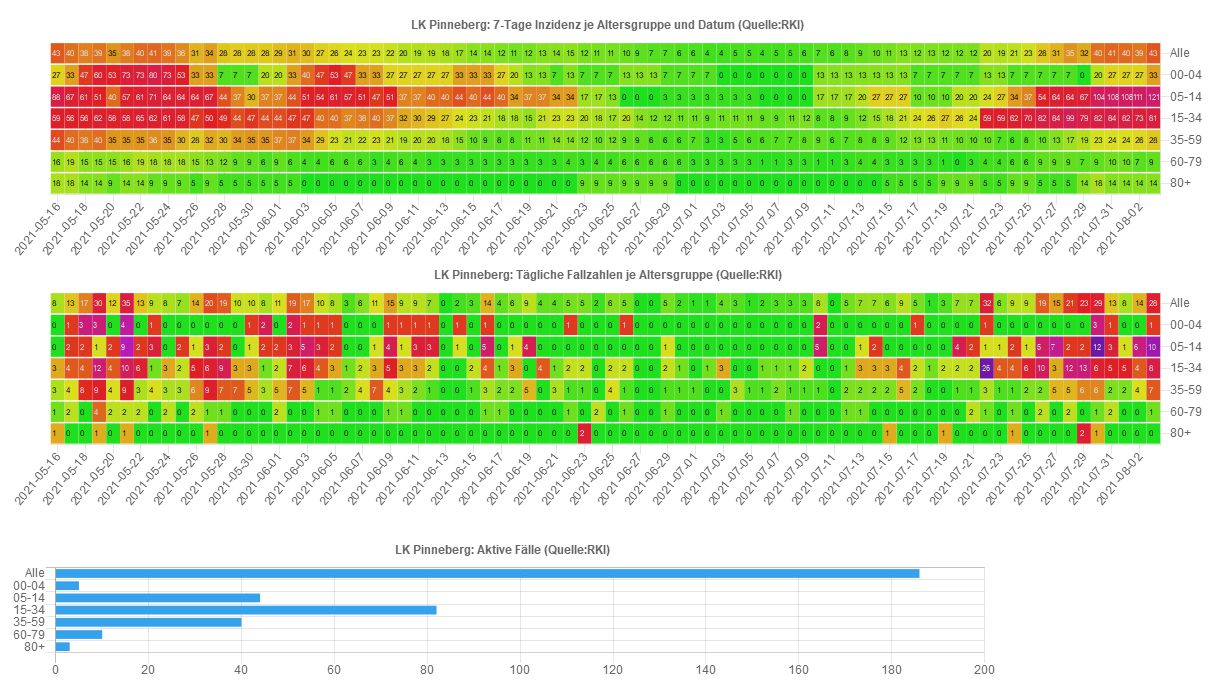
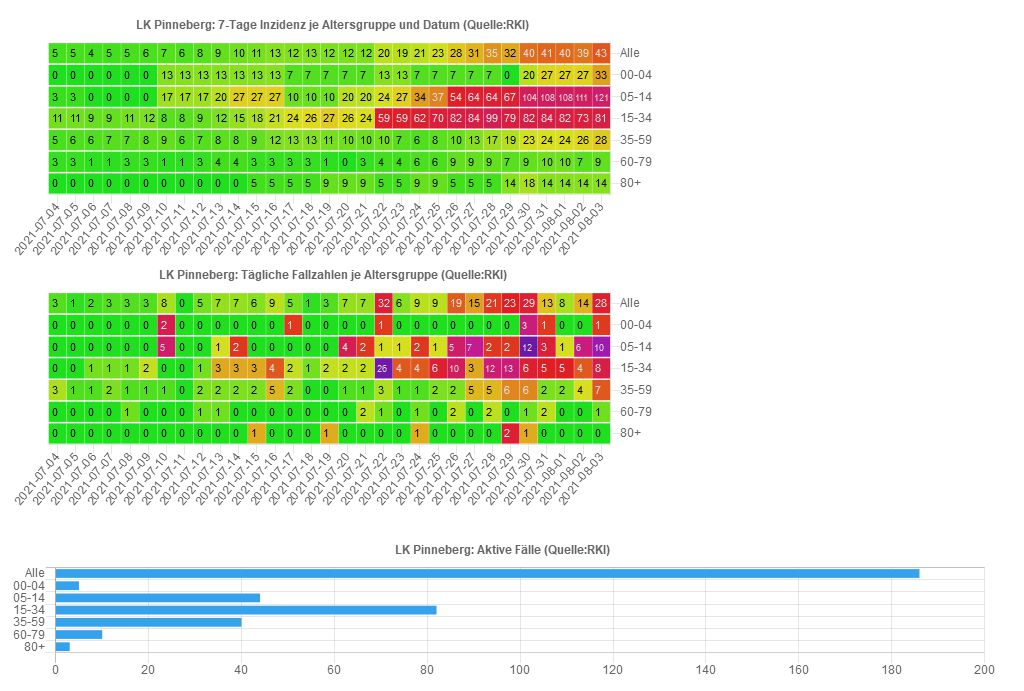
04.08.2021  9:20:01,37

diff --git a/sh/Data_PI_Alter.js b/sh/Data_PI_Alter.js
@@ -4,55 +4,6 @@ var chdata={
 		datasets: [{
 			label: 'Altersgruppeninzidenzen',
 			data: [
-				{x: '2021-05-16', y: 'Alle', v: 42.7075985, vday: 17.7157446, cases: 8, casesum: 135},{x: '2021-05-16', y: '00-04', v: 26.6187529, vday: 0, cases: 0, casesum: 4},{x: '2021-05-16', y: '05-14', v: 87.5568277, vday: 0, cases: 0, casesum: 26},{x: '2021-05-16', y: '15-34', v: 59.3715747, vday: 31.9693095, cases: 3, casesum: 39},{x: '2021-05-16', y: '35-59', v: 44.3320208, vday: 18.2543615, cases: 3, casesum: 51},{x: '2021-05-16', y: '60-79', v: 16.062615, vday: 10.2216641, cases: 1, casesum: 11},{x: '2021-05-16', y: '80+', v: 18.0423996, vday: 31.5741994, cases: 1, casesum: 4},
-				{x: '2021-05-17', y: 'Alle', v: 39.5440727, vday: 28.7880849, cases: 13, casesum: 125},{x: '2021-05-17', y: '00-04', v: 33.2734411, vday: 46.5828176, cases: 1, casesum: 5},{x: '2021-05-17', y: '05-14', v: 67.351406, vday: 47.1459842, cases: 2, casesum: 20},{x: '2021-05-17', y: '15-34', v: 56.3268786, vday: 42.625746, cases: 4, casesum: 37},{x: '2021-05-17', y: '35-59', v: 39.9857442, vday: 24.3391487, cases: 4, casesum: 46},{x: '2021-05-17', y: '60-79', v: 18.9830904, vday: 20.4433282, cases: 2, casesum: 13},{x: '2021-05-17', y: '80+', v: 18.0423996, vday: 0, cases: 0, casesum: 4},
-				{x: '2021-05-18', y: 'Alle', v: 37.6459572, vday: 37.6459572, cases: 17, casesum: 119},{x: '2021-05-18', y: '00-04', v: 46.5828176, vday: 139.748453, cases: 3, casesum: 7},{x: '2021-05-18', y: '05-14', v: 60.6162654, vday: 47.1459842, cases: 2, casesum: 18},{x: '2021-05-18', y: '15-34', v: 56.3268786, vday: 42.625746, cases: 4, casesum: 37},{x: '2021-05-18', y: '35-59', v: 38.2472336, vday: 48.6782973, cases: 8, casesum: 44},{x: '2021-05-18', y: '60-79', v: 14.6023773, vday: 0, cases: 0, casesum: 10},{x: '2021-05-18', y: '80+', v: 13.5317997, vday: 0, cases: 0, casesum: 3},
-				{x: '2021-05-19', y: 'Alle', v: 39.2277201, vday: 66.4340421, cases: 30, casesum: 124},{x: '2021-05-19', y: '00-04', v: 59.8921941, vday: 139.748453, cases: 3, casesum: 9},{x: '2021-05-19', y: '05-14', v: 50.5135545, vday: 23.5729921, cases: 1, casesum: 15},{x: '2021-05-19', y: '15-34', v: 62.4162709, vday: 127.877238, cases: 12, casesum: 41},{x: '2021-05-19', y: '35-59', v: 39.9857442, vday: 54.7630845, cases: 9, casesum: 46},{x: '2021-05-19', y: '60-79', v: 14.6023773, vday: 40.8866563, cases: 4, casesum: 10},{x: '2021-05-19', y: '80+', v: 13.5317997, vday: 31.5741994, cases: 1, casesum: 3},
-				{x: '2021-05-20', y: 'Alle', v: 34.7987839, vday: 26.5736168, cases: 12, casesum: 110},{x: '2021-05-20', y: '00-04', v: 53.2375058, vday: 0, cases: 0, casesum: 8},{x: '2021-05-20', y: '05-14', v: 40.4108436, vday: 47.1459842, cases: 2, casesum: 12},{x: '2021-05-20', y: '15-34', v: 57.8492266, vday: 42.625746, cases: 4, casesum: 38},{x: '2021-05-20', y: '35-59', v: 34.7702124, vday: 24.3391487, cases: 4, casesum: 40},{x: '2021-05-20', y: '60-79', v: 14.6023773, vday: 20.4433282, cases: 2, casesum: 10},{x: '2021-05-20', y: '80+', v: 9.02119982, vday: 0, cases: 0, casesum: 2},
-				{x: '2021-05-21', y: 'Alle', v: 37.9623098, vday: 77.5063824, cases: 35, casesum: 120},{x: '2021-05-21', y: '00-04', v: 73.2015705, vday: 186.33127, cases: 4, casesum: 11},{x: '2021-05-21', y: '05-14', v: 57.2486951, vday: 212.156929, cases: 9, casesum: 17},{x: '2021-05-21', y: '15-34', v: 57.8492266, vday: 106.564365, cases: 10, casesum: 38},{x: '2021-05-21', y: '35-59', v: 34.7702124, vday: 54.7630845, cases: 9, casesum: 40},{x: '2021-05-21', y: '60-79', v: 16.062615, vday: 20.4433282, cases: 2, casesum: 11},{x: '2021-05-21', y: '80+', v: 13.5317997, vday: 31.5741994, cases: 1, casesum: 3},
-				{x: '2021-05-22', y: 'Alle', v: 40.4931304, vday: 28.7880849, cases: 13, casesum: 128},{x: '2021-05-22', y: '00-04', v: 73.2015705, vday: 0, cases: 0, casesum: 11},{x: '2021-05-22', y: '05-14', v: 60.6162654, vday: 47.1459842, cases: 2, casesum: 18},{x: '2021-05-22', y: '15-34', v: 65.460967, vday: 63.9386189, cases: 6, casesum: 43},{x: '2021-05-22', y: '35-59', v: 34.7702124, vday: 18.2543615, cases: 3, casesum: 40},{x: '2021-05-22', y: '60-79', v: 18.9830904, vday: 20.4433282, cases: 2, casesum: 13},{x: '2021-05-22', y: '80+', v: 13.5317997, vday: 0, cases: 0, casesum: 3},
-				{x: '2021-05-23', y: 'Alle', v: 40.809483, vday: 19.9302126, cases: 9, casesum: 129},{x: '2021-05-23', y: '00-04', v: 79.8562587, vday: 46.5828176, cases: 1, casesum: 12},{x: '2021-05-23', y: '05-14', v: 70.7189763, vday: 70.7189763, cases: 3, casesum: 21},{x: '2021-05-23', y: '15-34', v: 62.4162709, vday: 10.6564365, cases: 1, casesum: 41},{x: '2021-05-23', y: '35-59', v: 35.6394677, vday: 24.3391487, cases: 4, casesum: 41},{x: '2021-05-23', y: '60-79', v: 17.5228527, vday: 0, cases: 0, casesum: 12},{x: '2021-05-23', y: '80+', v: 9.02119982, vday: 0, cases: 0, casesum: 2},
-				{x: '2021-05-24', y: 'Alle', v: 39.2277201, vday: 17.7157446, cases: 8, casesum: 124},{x: '2021-05-24', y: '00-04', v: 73.2015705, vday: 0, cases: 0, casesum: 11},{x: '2021-05-24', y: '05-14', v: 63.9838357, vday: 0, cases: 0, casesum: 19},{x: '2021-05-24', y: '15-34', v: 60.8939228, vday: 31.9693095, cases: 3, casesum: 40},{x: '2021-05-24', y: '35-59', v: 34.7702124, vday: 18.2543615, cases: 3, casesum: 40},{x: '2021-05-24', y: '60-79', v: 17.5228527, vday: 20.4433282, cases: 2, casesum: 12},{x: '2021-05-24', y: '80+', v: 9.02119982, vday: 0, cases: 0, casesum: 2},
-				{x: '2021-05-25', y: 'Alle', v: 36.0641943, vday: 15.5012765, cases: 7, casesum: 114},{x: '2021-05-25', y: '00-04', v: 53.2375058, vday: 0, cases: 0, casesum: 8},{x: '2021-05-25', y: '05-14', v: 63.9838357, vday: 47.1459842, cases: 2, casesum: 19},{x: '2021-05-25', y: '15-34', v: 57.8492266, vday: 21.312873, cases: 2, casesum: 38},{x: '2021-05-25', y: '35-59', v: 30.4239358, vday: 18.2543615, cases: 3, casesum: 35},{x: '2021-05-25', y: '60-79', v: 17.5228527, vday: 0, cases: 0, casesum: 12},{x: '2021-05-25', y: '80+', v: 9.02119982, vday: 0, cases: 0, casesum: 2},
-				{x: '2021-05-26', y: 'Alle', v: 31.002553, vday: 31.002553, cases: 14, casesum: 98},{x: '2021-05-26', y: '00-04', v: 33.2734411, vday: 0, cases: 0, casesum: 5},{x: '2021-05-26', y: '05-14', v: 63.9838357, vday: 23.5729921, cases: 1, casesum: 19},{x: '2021-05-26', y: '15-34', v: 47.1927902, vday: 53.2821824, cases: 5, casesum: 31},{x: '2021-05-26', y: '35-59', v: 27.8161699, vday: 36.508723, cases: 6, casesum: 32},{x: '2021-05-26', y: '60-79', v: 14.6023773, vday: 20.4433282, cases: 2, casesum: 10},{x: '2021-05-26', y: '80+', v: 4.51059991, vday: 0, cases: 0, casesum: 1},
-				{x: '2021-05-27', y: 'Alle', v: 33.5333736, vday: 44.2893614, cases: 20, casesum: 106},{x: '2021-05-27', y: '00-04', v: 33.2734411, vday: 0, cases: 0, casesum: 5},{x: '2021-05-27', y: '05-14', v: 67.351406, vday: 70.7189763, cases: 3, casesum: 20},{x: '2021-05-27', y: '15-34', v: 50.2374863, vday: 63.9386189, cases: 6, casesum: 33},{x: '2021-05-27', y: '35-59', v: 32.1624464, vday: 54.7630845, cases: 9, casesum: 37},{x: '2021-05-27', y: '60-79', v: 13.1421395, vday: 10.2216641, cases: 1, casesum: 9},{x: '2021-05-27', y: '80+', v: 9.02119982, vday: 31.5741994, cases: 1, casesum: 2},
-				{x: '2021-05-28', y: 'Alle', v: 28.4717323, vday: 42.0748933, cases: 19, casesum: 90},{x: '2021-05-28', y: '00-04', v: 6.65468823, vday: 0, cases: 0, casesum: 1},{x: '2021-05-28', y: '05-14', v: 43.7784139, vday: 47.1459842, cases: 2, casesum: 13},{x: '2021-05-28', y: '15-34', v: 48.7151382, vday: 95.9079284, cases: 9, casesum: 32},{x: '2021-05-28', y: '35-59', v: 30.4239358, vday: 42.5935101, cases: 7, casesum: 35},{x: '2021-05-28', y: '60-79', v: 11.6819018, vday: 10.2216641, cases: 1, casesum: 8},{x: '2021-05-28', y: '80+', v: 4.51059991, vday: 0, cases: 0, casesum: 1},
-				{x: '2021-05-29', y: 'Alle', v: 27.5226746, vday: 22.1446807, cases: 10, casesum: 87},{x: '2021-05-29', y: '00-04', v: 6.65468823, vday: 0, cases: 0, casesum: 1},{x: '2021-05-29', y: '05-14', v: 37.0432733, vday: 0, cases: 0, casesum: 11},{x: '2021-05-29', y: '15-34', v: 44.148094, vday: 31.9693095, cases: 3, casesum: 29},{x: '2021-05-29', y: '35-59', v: 33.9009571, vday: 42.5935101, cases: 7, casesum: 39},{x: '2021-05-29', y: '60-79', v: 8.76142636, vday: 0, cases: 0, casesum: 6},{x: '2021-05-29', y: '80+', v: 4.51059991, vday: 0, cases: 0, casesum: 1},
-				{x: '2021-05-30', y: 'Alle', v: 27.8390272, vday: 22.1446807, cases: 10, casesum: 88},{x: '2021-05-30', y: '00-04', v: 6.65468823, vday: 46.5828176, cases: 1, casesum: 1},{x: '2021-05-30', y: '05-14', v: 30.3081327, vday: 23.5729921, cases: 1, casesum: 9},{x: '2021-05-30', y: '15-34', v: 47.1927902, vday: 31.9693095, cases: 3, casesum: 31},{x: '2021-05-30', y: '35-59', v: 34.7702124, vday: 30.4239358, cases: 5, casesum: 40},{x: '2021-05-30', y: '60-79', v: 8.76142636, vday: 0, cases: 0, casesum: 6},{x: '2021-05-30', y: '80+', v: 4.51059991, vday: 0, cases: 0, casesum: 1},
-				{x: '2021-05-31', y: 'Alle', v: 27.8390272, vday: 17.7157446, cases: 8, casesum: 88},{x: '2021-05-31', y: '00-04', v: 19.9640647, vday: 93.1656352, cases: 2, casesum: 3},{x: '2021-05-31', y: '05-14', v: 37.0432733, vday: 47.1459842, cases: 2, casesum: 11},{x: '2021-05-31', y: '15-34', v: 44.148094, vday: 10.6564365, cases: 1, casesum: 29},{x: '2021-05-31', y: '35-59', v: 34.7702124, vday: 18.2543615, cases: 3, casesum: 40},{x: '2021-05-31', y: '60-79', v: 5.84095091, vday: 0, cases: 0, casesum: 4},{x: '2021-05-31', y: '80+', v: 4.51059991, vday: 0, cases: 0, casesum: 1},
-				{x: '2021-06-01', y: 'Alle', v: 29.1044375, vday: 24.3591488, cases: 11, casesum: 92},{x: '2021-06-01', y: '00-04', v: 19.9640647, vday: 0, cases: 0, casesum: 3},{x: '2021-06-01', y: '05-14', v: 37.0432733, vday: 47.1459842, cases: 2, casesum: 11},{x: '2021-06-01', y: '15-34', v: 44.148094, vday: 21.312873, cases: 2, casesum: 29},{x: '2021-06-01', y: '35-59', v: 36.508723, vday: 30.4239358, cases: 5, casesum: 42},{x: '2021-06-01', y: '60-79', v: 8.76142636, vday: 20.4433282, cases: 2, casesum: 6},{x: '2021-06-01', y: '80+', v: 4.51059991, vday: 0, cases: 0, casesum: 1},
-				{x: '2021-06-02', y: 'Alle', v: 30.6862004, vday: 42.0748933, cases: 19, casesum: 97},{x: '2021-06-02', y: '00-04', v: 33.2734411, vday: 93.1656352, cases: 2, casesum: 5},{x: '2021-06-02', y: '05-14', v: 43.7784139, vday: 70.7189763, cases: 3, casesum: 13},{x: '2021-06-02', y: '15-34', v: 47.1927902, vday: 74.5950554, cases: 7, casesum: 31},{x: '2021-06-02', y: '35-59', v: 37.3779783, vday: 42.5935101, cases: 7, casesum: 43},{x: '2021-06-02', y: '60-79', v: 5.84095091, vday: 0, cases: 0, casesum: 4},{x: '2021-06-02', y: '80+', v: 4.51059991, vday: 0, cases: 0, casesum: 1},
-				{x: '2021-06-03', y: 'Alle', v: 29.7371426, vday: 37.6459572, cases: 17, casesum: 94},{x: '2021-06-03', y: '00-04', v: 39.9281294, vday: 46.5828176, cases: 1, casesum: 6},{x: '2021-06-03', y: '05-14', v: 50.5135545, vday: 117.86496, cases: 5, casesum: 15},{x: '2021-06-03', y: '15-34', v: 47.1927902, vday: 63.9386189, cases: 6, casesum: 31},{x: '2021-06-03', y: '35-59', v: 33.9009571, vday: 30.4239358, cases: 5, casesum: 39},{x: '2021-06-03', y: '60-79', v: 4.38071318, vday: 0, cases: 0, casesum: 3},{x: '2021-06-03', y: '80+', v: 0, vday: 0, cases: 0, casesum: 0},
-				{x: '2021-06-04', y: 'Alle', v: 26.8899694, vday: 22.1446807, cases: 10, casesum: 85},{x: '2021-06-04', y: '00-04', v: 46.5828176, vday: 46.5828176, cases: 1, casesum: 7},{x: '2021-06-04', y: '05-14', v: 53.8811248, vday: 70.7189763, cases: 3, casesum: 16},{x: '2021-06-04', y: '15-34', v: 39.5810498, vday: 42.625746, cases: 4, casesum: 26},{x: '2021-06-04', y: '35-59', v: 28.6854252, vday: 6.08478716, cases: 1, casesum: 33},{x: '2021-06-04', y: '60-79', v: 4.38071318, vday: 10.2216641, cases: 1, casesum: 3},{x: '2021-06-04', y: '80+', v: 0, vday: 0, cases: 0, casesum: 0},
-				{x: '2021-06-05', y: 'Alle', v: 26.2572642, vday: 17.7157446, cases: 8, casesum: 83},{x: '2021-06-05', y: '00-04', v: 53.2375058, vday: 46.5828176, cases: 1, casesum: 8},{x: '2021-06-05', y: '05-14', v: 60.6162654, vday: 47.1459842, cases: 2, casesum: 18},{x: '2021-06-05', y: '15-34', v: 39.5810498, vday: 31.9693095, cases: 3, casesum: 26},{x: '2021-06-05', y: '35-59', v: 23.4698933, vday: 6.08478716, cases: 1, casesum: 27},{x: '2021-06-05', y: '60-79', v: 5.84095091, vday: 10.2216641, cases: 1, casesum: 4},{x: '2021-06-05', y: '80+', v: 0, vday: 0, cases: 0, casesum: 0},
-				{x: '2021-06-06', y: 'Alle', v: 24.0427962, vday: 6.64340421, cases: 3, casesum: 76},{x: '2021-06-06', y: '00-04', v: 46.5828176, vday: 0, cases: 0, casesum: 7},{x: '2021-06-06', y: '05-14', v: 57.2486951, vday: 0, cases: 0, casesum: 17},{x: '2021-06-06', y: '15-34', v: 36.5363537, vday: 10.6564365, cases: 1, casesum: 24},{x: '2021-06-06', y: '35-59', v: 20.8621274, vday: 12.1695743, cases: 2, casesum: 24},{x: '2021-06-06', y: '60-79', v: 5.84095091, vday: 0, cases: 0, casesum: 4},{x: '2021-06-06', y: '80+', v: 0, vday: 0, cases: 0, casesum: 0},
-				{x: '2021-06-07', y: 'Alle', v: 23.410091, vday: 13.2868084, cases: 6, casesum: 74},{x: '2021-06-07', y: '00-04', v: 33.2734411, vday: 0, cases: 0, casesum: 5},{x: '2021-06-07', y: '05-14', v: 50.5135545, vday: 0, cases: 0, casesum: 15},{x: '2021-06-07', y: '15-34', v: 38.0587017, vday: 21.312873, cases: 2, casesum: 25},{x: '2021-06-07', y: '35-59', v: 21.7313827, vday: 24.3391487, cases: 4, casesum: 25},{x: '2021-06-07', y: '60-79', v: 5.84095091, vday: 0, cases: 0, casesum: 4},{x: '2021-06-07', y: '80+', v: 0, vday: 0, cases: 0, casesum: 0},
-				{x: '2021-06-08', y: 'Alle', v: 23.410091, vday: 24.3591488, cases: 11, casesum: 74},{x: '2021-06-08', y: '00-04', v: 33.2734411, vday: 0, cases: 0, casesum: 5},{x: '2021-06-08', y: '05-14', v: 47.1459842, vday: 23.5729921, cases: 1, casesum: 14},{x: '2021-06-08', y: '15-34', v: 39.5810498, vday: 31.9693095, cases: 3, casesum: 26},{x: '2021-06-08', y: '35-59', v: 23.4698933, vday: 42.5935101, cases: 7, casesum: 27},{x: '2021-06-08', y: '60-79', v: 2.92047545, vday: 0, cases: 0, casesum: 2},{x: '2021-06-08', y: '80+', v: 0, vday: 0, cases: 0, casesum: 0},
-				{x: '2021-06-09', y: 'Alle', v: 22.1446807, vday: 33.217021, cases: 15, casesum: 70},{x: '2021-06-09', y: '00-04', v: 26.6187529, vday: 46.5828176, cases: 1, casesum: 4},{x: '2021-06-09', y: '05-14', v: 50.5135545, vday: 94.2919683, cases: 4, casesum: 15},{x: '2021-06-09', y: '15-34', v: 36.5363537, vday: 53.2821824, cases: 5, casesum: 24},{x: '2021-06-09', y: '35-59', v: 20.8621274, vday: 24.3391487, cases: 4, casesum: 24},{x: '2021-06-09', y: '60-79', v: 4.38071318, vday: 10.2216641, cases: 1, casesum: 3},{x: '2021-06-09', y: '80+', v: 0, vday: 0, cases: 0, casesum: 0},
-				{x: '2021-06-10', y: 'Alle', v: 19.61386, vday: 19.9302126, cases: 9, casesum: 62},{x: '2021-06-10', y: '00-04', v: 26.6187529, vday: 46.5828176, cases: 1, casesum: 4},{x: '2021-06-10', y: '05-14', v: 37.0432733, vday: 23.5729921, cases: 1, casesum: 11},{x: '2021-06-10', y: '15-34', v: 31.9693095, vday: 31.9693095, cases: 3, casesum: 21},{x: '2021-06-10', y: '35-59', v: 19.1236168, vday: 18.2543615, cases: 3, casesum: 22},{x: '2021-06-10', y: '60-79', v: 5.84095091, vday: 10.2216641, cases: 1, casesum: 4},{x: '2021-06-10', y: '80+', v: 0, vday: 0, cases: 0, casesum: 0},
-				{x: '2021-06-11', y: 'Alle', v: 19.2975075, vday: 19.9302126, cases: 9, casesum: 61},{x: '2021-06-11', y: '00-04', v: 26.6187529, vday: 46.5828176, cases: 1, casesum: 4},{x: '2021-06-11', y: '05-14', v: 37.0432733, vday: 70.7189763, cases: 3, casesum: 11},{x: '2021-06-11', y: '15-34', v: 30.4469614, vday: 31.9693095, cases: 3, casesum: 20},{x: '2021-06-11', y: '35-59', v: 19.9928721, vday: 12.1695743, cases: 2, casesum: 23},{x: '2021-06-11', y: '60-79', v: 4.38071318, vday: 0, cases: 0, casesum: 3},{x: '2021-06-11', y: '80+', v: 0, vday: 0, cases: 0, casesum: 0},
-				{x: '2021-06-12', y: 'Alle', v: 18.9811549, vday: 15.5012765, cases: 7, casesum: 60},{x: '2021-06-12', y: '00-04', v: 26.6187529, vday: 46.5828176, cases: 1, casesum: 4},{x: '2021-06-12', y: '05-14', v: 40.4108436, vday: 70.7189763, cases: 3, casesum: 12},{x: '2021-06-12', y: '15-34', v: 28.9246133, vday: 21.312873, cases: 2, casesum: 19},{x: '2021-06-12', y: '35-59', v: 19.9928721, vday: 6.08478716, cases: 1, casesum: 23},{x: '2021-06-12', y: '60-79', v: 2.92047545, vday: 0, cases: 0, casesum: 2},{x: '2021-06-12', y: '80+', v: 0, vday: 0, cases: 0, casesum: 0},
-				{x: '2021-06-13', y: 'Alle', v: 18.0320971, vday: 0, cases: 0, casesum: 57},{x: '2021-06-13', y: '00-04', v: 26.6187529, vday: 0, cases: 0, casesum: 4},{x: '2021-06-13', y: '05-14', v: 40.4108436, vday: 0, cases: 0, casesum: 12},{x: '2021-06-13', y: '15-34', v: 27.4022653, vday: 0, cases: 0, casesum: 18},{x: '2021-06-13', y: '35-59', v: 18.2543615, vday: 0, cases: 0, casesum: 21},{x: '2021-06-13', y: '60-79', v: 2.92047545, vday: 0, cases: 0, casesum: 2},{x: '2021-06-13', y: '80+', v: 0, vday: 0, cases: 0, casesum: 0},
-				{x: '2021-06-14', y: 'Alle', v: 16.7666868, vday: 4.42893614, cases: 2, casesum: 53},{x: '2021-06-14', y: '00-04', v: 33.2734411, vday: 46.5828176, cases: 1, casesum: 5},{x: '2021-06-14', y: '05-14', v: 43.7784139, vday: 23.5729921, cases: 1, casesum: 13},{x: '2021-06-14', y: '15-34', v: 24.3575691, vday: 0, cases: 0, casesum: 16},{x: '2021-06-14', y: '35-59', v: 14.7773403, vday: 0, cases: 0, casesum: 17},{x: '2021-06-14', y: '60-79', v: 2.92047545, vday: 0, cases: 0, casesum: 2},{x: '2021-06-14', y: '80+', v: 0, vday: 0, cases: 0, casesum: 0},
-				{x: '2021-06-15', y: 'Alle', v: 14.2358662, vday: 6.64340421, cases: 3, casesum: 45},{x: '2021-06-15', y: '00-04', v: 33.2734411, vday: 0, cases: 0, casesum: 5},{x: '2021-06-15', y: '05-14', v: 40.4108436, vday: 0, cases: 0, casesum: 12},{x: '2021-06-15', y: '15-34', v: 22.835221, vday: 21.312873, cases: 2, casesum: 15},{x: '2021-06-15', y: '35-59', v: 9.5618084, vday: 6.08478716, cases: 1, casesum: 11},{x: '2021-06-15', y: '60-79', v: 2.92047545, vday: 0, cases: 0, casesum: 2},{x: '2021-06-15', y: '80+', v: 0, vday: 0, cases: 0, casesum: 0},
-				{x: '2021-06-16', y: 'Alle', v: 13.9195136, vday: 31.002553, cases: 14, casesum: 44},{x: '2021-06-16', y: '00-04', v: 33.2734411, vday: 46.5828176, cases: 1, casesum: 5},{x: '2021-06-16', y: '05-14', v: 43.7784139, vday: 117.86496, cases: 5, casesum: 13},{x: '2021-06-16', y: '15-34', v: 21.312873, vday: 42.625746, cases: 4, casesum: 14},{x: '2021-06-16', y: '35-59', v: 8.69255309, vday: 18.2543615, cases: 3, casesum: 10},{x: '2021-06-16', y: '60-79', v: 2.92047545, vday: 10.2216641, cases: 1, casesum: 2},{x: '2021-06-16', y: '80+', v: 0, vday: 0, cases: 0, casesum: 0},
-				{x: '2021-06-17', y: 'Alle', v: 12.3377507, vday: 8.85787228, cases: 4, casesum: 39},{x: '2021-06-17', y: '00-04', v: 26.6187529, vday: 0, cases: 0, casesum: 4},{x: '2021-06-17', y: '05-14', v: 40.4108436, vday: 0, cases: 0, casesum: 12},{x: '2021-06-17', y: '15-34', v: 18.2681768, vday: 10.6564365, cases: 1, casesum: 12},{x: '2021-06-17', y: '35-59', v: 7.82329778, vday: 12.1695743, cases: 2, casesum: 9},{x: '2021-06-17', y: '60-79', v: 2.92047545, vday: 10.2216641, cases: 1, casesum: 2},{x: '2021-06-17', y: '80+', v: 0, vday: 0, cases: 0, casesum: 0},
-				{x: '2021-06-18', y: 'Alle', v: 11.3886929, vday: 13.2868084, cases: 6, casesum: 36},{x: '2021-06-18', y: '00-04', v: 19.9640647, vday: 0, cases: 0, casesum: 3},{x: '2021-06-18', y: '05-14', v: 33.675703, vday: 23.5729921, cases: 1, casesum: 10},{x: '2021-06-18', y: '15-34', v: 18.2681768, vday: 31.9693095, cases: 3, casesum: 12},{x: '2021-06-18', y: '35-59', v: 7.82329778, vday: 12.1695743, cases: 2, casesum: 9},{x: '2021-06-18', y: '60-79', v: 2.92047545, vday: 0, cases: 0, casesum: 2},{x: '2021-06-18', y: '80+', v: 0, vday: 0, cases: 0, casesum: 0},
-				{x: '2021-06-19', y: 'Alle', v: 12.0213981, vday: 19.9302126, cases: 9, casesum: 38},{x: '2021-06-19', y: '00-04', v: 13.3093765, vday: 0, cases: 0, casesum: 2},{x: '2021-06-19', y: '05-14', v: 37.0432733, vday: 94.2919683, cases: 4, casesum: 11},{x: '2021-06-19', y: '15-34', v: 15.2234807, vday: 0, cases: 0, casesum: 10},{x: '2021-06-19', y: '35-59', v: 11.300319, vday: 30.4239358, cases: 5, casesum: 13},{x: '2021-06-19', y: '60-79', v: 2.92047545, vday: 0, cases: 0, casesum: 2},{x: '2021-06-19', y: '80+', v: 0, vday: 0, cases: 0, casesum: 0},
-				{x: '2021-06-20', y: 'Alle', v: 13.2868084, vday: 8.85787228, cases: 4, casesum: 42},{x: '2021-06-20', y: '00-04', v: 13.3093765, vday: 0, cases: 0, casesum: 2},{x: '2021-06-20', y: '05-14', v: 37.0432733, vday: 0, cases: 0, casesum: 11},{x: '2021-06-20', y: '15-34', v: 21.312873, vday: 42.625746, cases: 4, casesum: 14},{x: '2021-06-20', y: '35-59', v: 11.300319, vday: 0, cases: 0, casesum: 13},{x: '2021-06-20', y: '60-79', v: 2.92047545, vday: 0, cases: 0, casesum: 2},{x: '2021-06-20', y: '80+', v: 0, vday: 0, cases: 0, casesum: 0},
-				{x: '2021-06-21', y: 'Alle', v: 13.9195136, vday: 8.85787228, cases: 4, casesum: 44},{x: '2021-06-21', y: '00-04', v: 6.65468823, vday: 0, cases: 0, casesum: 1},{x: '2021-06-21', y: '05-14', v: 33.675703, vday: 0, cases: 0, casesum: 10},{x: '2021-06-21', y: '15-34', v: 22.835221, vday: 10.6564365, cases: 1, casesum: 15},{x: '2021-06-21', y: '35-59', v: 13.9080849, vday: 18.2543615, cases: 3, casesum: 16},{x: '2021-06-21', y: '60-79', v: 2.92047545, vday: 0, cases: 0, casesum: 2},{x: '2021-06-21', y: '80+', v: 0, vday: 0, cases: 0, casesum: 0},
-				{x: '2021-06-22', y: 'Alle', v: 14.5522187, vday: 11.0723403, cases: 5, casesum: 46},{x: '2021-06-22', y: '00-04', v: 13.3093765, vday: 46.5828176, cases: 1, casesum: 2},{x: '2021-06-22', y: '05-14', v: 33.675703, vday: 0, cases: 0, casesum: 10},{x: '2021-06-22', y: '15-34', v: 22.835221, vday: 21.312873, cases: 2, casesum: 15},{x: '2021-06-22', y: '35-59', v: 13.9080849, vday: 6.08478716, cases: 1, casesum: 16},{x: '2021-06-22', y: '60-79', v: 4.38071318, vday: 10.2216641, cases: 1, casesum: 3},{x: '2021-06-22', y: '80+', v: 0, vday: 0, cases: 0, casesum: 0},
-				{x: '2021-06-23', y: 'Alle', v: 11.7050455, vday: 11.0723403, cases: 5, casesum: 37},{x: '2021-06-23', y: '00-04', v: 6.65468823, vday: 0, cases: 0, casesum: 1},{x: '2021-06-23', y: '05-14', v: 16.8378515, vday: 0, cases: 0, casesum: 5},{x: '2021-06-23', y: '15-34', v: 19.7905249, vday: 21.312873, cases: 2, casesum: 13},{x: '2021-06-23', y: '35-59', v: 12.1695743, vday: 6.08478716, cases: 1, casesum: 14},{x: '2021-06-23', y: '60-79', v: 2.92047545, vday: 0, cases: 0, casesum: 2},{x: '2021-06-23', y: '80+', v: 9.02119982, vday: 63.1483987, cases: 2, casesum: 2},
-				{x: '2021-06-24', y: 'Alle', v: 11.0723403, vday: 4.42893614, cases: 2, casesum: 35},{x: '2021-06-24', y: '00-04', v: 6.65468823, vday: 0, cases: 0, casesum: 1},{x: '2021-06-24', y: '05-14', v: 16.8378515, vday: 0, cases: 0, casesum: 5},{x: '2021-06-24', y: '15-34', v: 18.2681768, vday: 0, cases: 0, casesum: 12},{x: '2021-06-24', y: '35-59', v: 10.4310637, vday: 0, cases: 0, casesum: 12},{x: '2021-06-24', y: '60-79', v: 4.38071318, vday: 20.4433282, cases: 2, casesum: 3},{x: '2021-06-24', y: '80+', v: 9.02119982, vday: 0, cases: 0, casesum: 2},
-				{x: '2021-06-25', y: 'Alle', v: 11.0723403, vday: 13.2868084, cases: 6, casesum: 35},{x: '2021-06-25', y: '00-04', v: 6.65468823, vday: 0, cases: 0, casesum: 1},{x: '2021-06-25', y: '05-14', v: 13.4702812, vday: 0, cases: 0, casesum: 4},{x: '2021-06-25', y: '15-34', v: 16.7458288, vday: 21.312873, cases: 2, casesum: 11},{x: '2021-06-25', y: '35-59', v: 12.1695743, vday: 24.3391487, cases: 4, casesum: 14},{x: '2021-06-25', y: '60-79', v: 4.38071318, vday: 0, cases: 0, casesum: 3},{x: '2021-06-25', y: '80+', v: 9.02119982, vday: 0, cases: 0, casesum: 2},
-				{x: '2021-06-26', y: 'Alle', v: 9.80693002, vday: 11.0723403, cases: 5, casesum: 31},{x: '2021-06-26', y: '00-04', v: 13.3093765, vday: 46.5828176, cases: 1, casesum: 2},{x: '2021-06-26', y: '05-14', v: 0, vday: 0, cases: 0, casesum: 0},{x: '2021-06-26', y: '15-34', v: 19.7905249, vday: 21.312873, cases: 2, casesum: 13},{x: '2021-06-26', y: '35-59', v: 8.69255309, vday: 6.08478716, cases: 1, casesum: 10},{x: '2021-06-26', y: '60-79', v: 5.84095091, vday: 10.2216641, cases: 1, casesum: 4},{x: '2021-06-26', y: '80+', v: 9.02119982, vday: 0, cases: 0, casesum: 2},
-				{x: '2021-06-27', y: 'Alle', v: 8.54151969, vday: 0, cases: 0, casesum: 27},{x: '2021-06-27', y: '00-04', v: 13.3093765, vday: 0, cases: 0, casesum: 2},{x: '2021-06-27', y: '05-14', v: 0, vday: 0, cases: 0, casesum: 0},{x: '2021-06-27', y: '15-34', v: 13.7011326, vday: 0, cases: 0, casesum: 9},{x: '2021-06-27', y: '35-59', v: 8.69255309, vday: 0, cases: 0, casesum: 10},{x: '2021-06-27', y: '60-79', v: 5.84095091, vday: 0, cases: 0, casesum: 4},{x: '2021-06-27', y: '80+', v: 9.02119982, vday: 0, cases: 0, casesum: 2},
-				{x: '2021-06-28', y: 'Alle', v: 7.27610937, vday: 0, cases: 0, casesum: 23},{x: '2021-06-28', y: '00-04', v: 13.3093765, vday: 0, cases: 0, casesum: 2},{x: '2021-06-28', y: '05-14', v: 0, vday: 0, cases: 0, casesum: 0},{x: '2021-06-28', y: '15-34', v: 12.1787846, vday: 0, cases: 0, casesum: 8},{x: '2021-06-28', y: '35-59', v: 6.08478716, vday: 0, cases: 0, casesum: 7},{x: '2021-06-28', y: '60-79', v: 5.84095091, vday: 0, cases: 0, casesum: 4},{x: '2021-06-28', y: '80+', v: 9.02119982, vday: 0, cases: 0, casesum: 2},
-				{x: '2021-06-29', y: 'Alle', v: 7.27610937, vday: 11.0723403, cases: 5, casesum: 23},{x: '2021-06-29', y: '00-04', v: 6.65468823, vday: 0, cases: 0, casesum: 1},{x: '2021-06-29', y: '05-14', v: 3.3675703, vday: 23.5729921, cases: 1, casesum: 1},{x: '2021-06-29', y: '15-34', v: 12.1787846, vday: 21.312873, cases: 2, casesum: 8},{x: '2021-06-29', y: '35-59', v: 6.08478716, vday: 6.08478716, cases: 1, casesum: 7},{x: '2021-06-29', y: '60-79', v: 5.84095091, vday: 10.2216641, cases: 1, casesum: 4},{x: '2021-06-29', y: '80+', v: 9.02119982, vday: 0, cases: 0, casesum: 2},
-				{x: '2021-06-30', y: 'Alle', v: 6.32705163, vday: 4.42893614, cases: 2, casesum: 20},{x: '2021-06-30', y: '00-04', v: 6.65468823, vday: 0, cases: 0, casesum: 1},{x: '2021-06-30', y: '05-14', v: 3.3675703, vday: 0, cases: 0, casesum: 1},{x: '2021-06-30', y: '15-34', v: 10.6564365, vday: 10.6564365, cases: 1, casesum: 7},{x: '2021-06-30', y: '35-59', v: 6.08478716, vday: 6.08478716, cases: 1, casesum: 7},{x: '2021-06-30', y: '60-79', v: 5.84095091, vday: 0, cases: 0, casesum: 4},{x: '2021-06-30', y: '80+', v: 0, vday: 0, cases: 0, casesum: 0},
-				{x: '2021-07-01', y: 'Alle', v: 6.01069904, vday: 2.21446807, cases: 1, casesum: 19},{x: '2021-07-01', y: '00-04', v: 6.65468823, vday: 0, cases: 0, casesum: 1},{x: '2021-07-01', y: '05-14', v: 3.3675703, vday: 0, cases: 0, casesum: 1},{x: '2021-07-01', y: '15-34', v: 10.6564365, vday: 0, cases: 0, casesum: 7},{x: '2021-07-01', y: '35-59', v: 6.95404247, vday: 6.08478716, cases: 1, casesum: 8},{x: '2021-07-01', y: '60-79', v: 2.92047545, vday: 0, cases: 0, casesum: 2},{x: '2021-07-01', y: '80+', v: 0, vday: 0, cases: 0, casesum: 0},
-				{x: '2021-07-02', y: 'Alle', v: 4.42893614, vday: 2.21446807, cases: 1, casesum: 14},{x: '2021-07-02', y: '00-04', v: 6.65468823, vday: 0, cases: 0, casesum: 1},{x: '2021-07-02', y: '05-14', v: 3.3675703, vday: 0, cases: 0, casesum: 1},{x: '2021-07-02', y: '15-34', v: 9.13408842, vday: 10.6564365, cases: 1, casesum: 6},{x: '2021-07-02', y: '35-59', v: 3.47702124, vday: 0, cases: 0, casesum: 4},{x: '2021-07-02', y: '60-79', v: 2.92047545, vday: 0, cases: 0, casesum: 2},{x: '2021-07-02', y: '80+', v: 0, vday: 0, cases: 0, casesum: 0},
-				{x: '2021-07-03', y: 'Alle', v: 4.11258356, vday: 8.85787228, cases: 4, casesum: 13},{x: '2021-07-03', y: '00-04', v: 0, vday: 0, cases: 0, casesum: 0},{x: '2021-07-03', y: '05-14', v: 3.3675703, vday: 0, cases: 0, casesum: 1},{x: '2021-07-03', y: '15-34', v: 10.6564365, vday: 31.9693095, cases: 3, casesum: 7},{x: '2021-07-03', y: '35-59', v: 2.60776593, vday: 0, cases: 0, casesum: 3},{x: '2021-07-03', y: '60-79', v: 2.92047545, vday: 10.2216641, cases: 1, casesum: 2},{x: '2021-07-03', y: '80+', v: 0, vday: 0, cases: 0, casesum: 0},
 				{x: '2021-07-04', y: 'Alle', v: 5.0616413, vday: 6.64340421, cases: 3, casesum: 16},{x: '2021-07-04', y: '00-04', v: 0, vday: 0, cases: 0, casesum: 0},{x: '2021-07-04', y: '05-14', v: 3.3675703, vday: 0, cases: 0, casesum: 1},{x: '2021-07-04', y: '15-34', v: 10.6564365, vday: 0, cases: 0, casesum: 7},{x: '2021-07-04', y: '35-59', v: 5.21553185, vday: 18.2543615, cases: 3, casesum: 6},{x: '2021-07-04', y: '60-79', v: 2.92047545, vday: 0, cases: 0, casesum: 2},{x: '2021-07-04', y: '80+', v: 0, vday: 0, cases: 0, casesum: 0},
 				{x: '2021-07-05', y: 'Alle', v: 5.37799388, vday: 2.21446807, cases: 1, casesum: 17},{x: '2021-07-05', y: '00-04', v: 0, vday: 0, cases: 0, casesum: 0},{x: '2021-07-05', y: '05-14', v: 3.3675703, vday: 0, cases: 0, casesum: 1},{x: '2021-07-05', y: '15-34', v: 10.6564365, vday: 0, cases: 0, casesum: 7},{x: '2021-07-05', y: '35-59', v: 6.08478716, vday: 6.08478716, cases: 1, casesum: 7},{x: '2021-07-05', y: '60-79', v: 2.92047545, vday: 0, cases: 0, casesum: 2},{x: '2021-07-05', y: '80+', v: 0, vday: 0, cases: 0, casesum: 0},
 				{x: '2021-07-06', y: 'Alle', v: 4.42893614, vday: 4.42893614, cases: 2, casesum: 14},{x: '2021-07-06', y: '00-04', v: 0, vday: 0, cases: 0, casesum: 0},{x: '2021-07-06', y: '05-14', v: 0, vday: 0, cases: 0, casesum: 0},{x: '2021-07-06', y: '15-34', v: 9.13408842, vday: 10.6564365, cases: 1, casesum: 6},{x: '2021-07-06', y: '35-59', v: 6.08478716, vday: 6.08478716, cases: 1, casesum: 7},{x: '2021-07-06', y: '60-79', v: 1.46023773, vday: 0, cases: 0, casesum: 1},{x: '2021-07-06', y: '80+', v: 0, vday: 0, cases: 0, casesum: 0},
@@ -91,7 +42,7 @@ var chdata={
 			width: function(context) {
 				const a = context.chart.chartArea
 				if (!a) return 0
-				return (a.right - a.left) / 80.5
+				return (a.right - a.left) / 31.5
 			},
 			height: function(context) {
 				const a = context.chart.chartArea
@@ -103,7 +54,7 @@ var chdata={
 	options: {
 		legend: { display: false },
 		scales: {
-			xAxes: [{type: 'category', labels: ["2021-05-16","2021-05-17","2021-05-18","2021-05-19","2021-05-20","2021-05-21","2021-05-22","2021-05-23","2021-05-24","2021-05-25","2021-05-26","2021-05-27","2021-05-28","2021-05-29","2021-05-30","2021-05-31","2021-06-01","2021-06-02","2021-06-03","2021-06-04","2021-06-05","2021-06-06","2021-06-07","2021-06-08","2021-06-09","2021-06-10","2021-06-11","2021-06-12","2021-06-13","2021-06-14","2021-06-15","2021-06-16","2021-06-17","2021-06-18","2021-06-19","2021-06-20","2021-06-21","2021-06-22","2021-06-23","2021-06-24","2021-06-25","2021-06-26","2021-06-27","2021-06-28","2021-06-29","2021-06-30","2021-07-01","2021-07-02","2021-07-03","2021-07-04","2021-07-05","2021-07-06","2021-07-07","2021-07-08","2021-07-09","2021-07-10","2021-07-11","2021-07-12","2021-07-13","2021-07-14","2021-07-15","2021-07-16","2021-07-17","2021-07-18","2021-07-19","2021-07-20","2021-07-21","2021-07-22","2021-07-23","2021-07-24","2021-07-25","2021-07-26","2021-07-27","2021-07-28","2021-07-29","2021-07-30","2021-07-31","2021-08-01","2021-08-02","2021-08-03",], ticks: {display: true},gridlines:{display:false}}],
+			xAxes: [{type: 'category', labels: ["2021-07-04","2021-07-05","2021-07-06","2021-07-07","2021-07-08","2021-07-09","2021-07-10","2021-07-11","2021-07-12","2021-07-13","2021-07-14","2021-07-15","2021-07-16","2021-07-17","2021-07-18","2021-07-19","2021-07-20","2021-07-21","2021-07-22","2021-07-23","2021-07-24","2021-07-25","2021-07-26","2021-07-27","2021-07-28","2021-07-29","2021-07-30","2021-07-31","2021-08-01","2021-08-02","2021-08-03",], ticks: {display: true},gridlines:{display:false}}],
 			yAxes: [{type: 'category', labels: ["Alle","00-04","05-14","15-34","35-59","60-79","80+"], offset:true, ticks: {display: true},gridlines:{display:false}}],
 		},
 	}

diff --git a/sh/index_pi_alter.html b/sh/index_pi_alter.html
@@ -5,7 +5,7 @@
 <meta property="og:image" content="index_pi_alter.jpg" />
 <meta property="og:type" content="website" />
 <meta property="og:locale" content="de_DE" />
-<meta property="og:updated_time" content="2021-08-04T07:10:48+01:00" />
+<meta property="og:updated_time" content="2021-08-04T09:19:59+01:00" />
 <title>Altersverteilung der COVID-19-Fälle im Kreis Pinneberg</title>
 <link rel="stylesheet" href="../css/style.css" media="screen" type="text/css">
 <link rel="stylesheet" media="screen" href="Chart.min.css"> 
@@ -20,8 +20,10 @@
 <a class="button" href="../">Inhalt</a>
 <a class="button button-outline" href="#Anmerkungen">Anmerkungen</a>
 <p>Quelle / Stand: <a href="https://npgeo-corona-npgeo-de.hub.arcgis.com/datasets/dd4580c810204019a7b8eb3e0b329dd6_0">NPGEO Corona (RKI)</a>: <span id="rki_date"></span></p>
-<canvas id="myChart" style="width:1200px;height: 250px;"></canvas>
-<canvas id="myChart3" style="width:1200px;height: 250px;"></canvas>
+<!--<canvas id="myChart" style="width:1200px;height: 250px;"></canvas>
+<canvas id="myChart3" style="width:1200px;height: 250px;"></canvas> -->
+<canvas id="myChart" style="width:650px;height: 250px;"></canvas>
+<canvas id="myChart3" style="width:650px;height: 250px;"></canvas>
 <!-- <br/><canvas id="legend" style="width:990px;height: 50px;padding-left:35px"></canvas> -->
 <br/><canvas id="myChart2" style="width:990px;height: 150px;"></canvas>
 <h2 id="Anmerkungen">Anmerkungen</h2>
@@ -39,6 +41,19 @@ var ctx3 = document.getElementById('myChart3').getContext('2d');
 var chdata3=JSON.parse(JSON.stringify(chdata));
 
 //**********************************************************************************************
+
+//dataMin = (chdata.data.datasets[0].data.length>=28)?(chdata.data.datasets[0].data.length-28):0
+dataLen = chdata.data.datasets[0].data.length
+lblLen= chdata.options.scales.xAxes[0].labels.length
+/*
+for (i=0;i<dataMin; i++) {
+    chdata.data.datasets[0].data.shift()
+    chdata.options.scales.xAxes[0].labels.shift()
+}*/
+
+
+//chdata.options.scales.xAxes[0].ticks.min=dataMin
+
 
 chdata.options.responsive=false
 chdata.options.animation=false
@@ -63,6 +78,7 @@ chdata.options.scales.yAxes[0].position='right'
 chdata.options.scales.yAxes[0].id='first-y-axis'
 chdata.options.scales.yAxes[0].offset=true
 chdata.options.scales.xAxes[0].offset=true
+//chdata.options.scales.xAxes[0].ticks.min=dataMin
 
 chdata.options.annotation = {
         drawTime: 'afterDatasetsDraw',
@@ -76,7 +92,21 @@ for (i=0; i<chdata.options.scales.xAxes[0].labels.length; i++) {
 }
 
 //Inzidenzen als Annotations
-var cellXWid=1111 / chdata.options.scales.xAxes[0].labels.length
+//var cellXWid=1111 / lblLen //1200px
+var cellXWid=561 / lblLen //650px
+
+console.log(dataLen+"_"+chdata.data.datasets[0].data.length+"_"+lblLen+"_"+cellXWid)
+
+/*chdata.data.datasets[0].width = 
+            function(context) {
+				const a = context.chart.chartArea
+				if (!a) return 0
+                //console.log((a.right - a.left) / (dataLen+0.5))
+				return (a.right - a.left) / (dataLen+0.5)
+			}*/
+
+
+//chdata.options.scales.xAxes[0].labels.length
 for (i=0; i<chdata.data.datasets[0].data.length;i++) {
     var rec=chdata.data.datasets[0].data[i]
     var oneAnnot = {
@@ -96,10 +126,11 @@ for (i=0; i<chdata.data.datasets[0].data.length;i++) {
                       //fontColor: window.chartColors.red,
                       xPadding: 2,
                       yPadding: 3,
-                      xAdjust: cellXWid*xLookup[rec.x],
+                      xAdjust: cellXWid*xLookup[rec.x]+2,
                       //yAdjust: 2,
                       fontColor: "#E0E0E0",
-                      fontSize: 8,
+                      //fontSize: 8,
+                      fontSize: 11,
                       content: Math.round(rec.v)+'',
                       rotation: 90,
                       position: "left",
@@ -109,7 +140,8 @@ for (i=0; i<chdata.data.datasets[0].data.length;i++) {
     if (rec.v<35) oneAnnot.label.fontColor="black"
     if (Math.round(rec.v)>=100) {
         oneAnnot.label.fontFamily = 'Arial Narrow, sans-serif'
-        oneAnnot.label.fontSize = 7.5
+        //oneAnnot.label.fontSize = 7.5
+        oneAnnot.label.fontSize = 10
         oneAnnot.label.xPadding = 1
     }
     chdata.options.annotation.annotations.push(oneAnnot)
@@ -165,7 +197,8 @@ for (i=0; i<chdata3.options.scales.xAxes[0].labels.length; i++) {
 }
 
 //Fälle als Annotations
-var cellXWid=1111 / chdata3.options.scales.xAxes[0].labels.length
+//var cellXWid=1111 / chdata3.options.scales.xAxes[0].labels.length //1200px
+var cellXWid=561/ chdata3.options.scales.xAxes[0].labels.length
 for (i=0; i<chdata3.data.datasets[0].data.length;i++) {
     var rec=chdata3.data.datasets[0].data[i]
     var oneAnnot = {
@@ -182,9 +215,9 @@ for (i=0; i<chdata3.data.datasets[0].data.length;i++) {
                       enabled: true,
                       xPadding: 2,
                       yPadding: 3,
-                      xAdjust: cellXWid*xLookup[rec.x],
+                      xAdjust: cellXWid*xLookup[rec.x]+2,
                       fontColor: "#E0E0E0",
-                      fontSize: 8,
+                      fontSize: 11,
                       content: Math.round(rec.cases)+'',
                       rotation: 90,
                       position: "left",
@@ -194,7 +227,7 @@ for (i=0; i<chdata3.data.datasets[0].data.length;i++) {
     if (rec.vday<35) oneAnnot.label.fontColor="black"
     if (Math.round(rec.vday)>=100) {
         oneAnnot.label.fontFamily = 'Arial Narrow, sans-serif'
-        oneAnnot.label.fontSize = 7.5
+        oneAnnot.label.fontSize = 10
         oneAnnot.label.xPadding = 1
     }
     chdata3.options.annotation.annotations.push(oneAnnot)

diff --git a/sh/index_sh_kreise.html b/sh/index_sh_kreise.html
@@ -5,7 +5,7 @@
 <meta property="og:image" content="index_sh_kreise.jpg" />
 <meta property="og:type" content="website" />
 <meta property="og:locale" content="de_DE" />
-<meta property="og:updated_time" content="2021-08-04T07:10:48+01:00" />
+<meta property="og:updated_time" content="2021-08-04T09:19:59+01:00" />
 <title>COVID-19-Fälle im Kreis Pinneberg (und anderen Kreisen in SH)</title>
 <link rel="stylesheet" href="../css/style.css" media="screen" type="text/css">
 <link rel="stylesheet" media="screen" href="Chart.min.css"> 

diff --git a/sh/index_sh_alter.html b/sh/index_sh_alter.html
@@ -5,7 +5,7 @@
 <meta property="og:image" content="index_sh_alter.jpg" />
 <meta property="og:type" content="website" />
 <meta property="og:locale" content="de_DE" />
-<meta property="og:updated_time" content="2021-08-04T07:10:48+01:00" />
+<meta property="og:updated_time" content="2021-08-04T09:19:59+01:00" />
 <title>Altersverteilung der COVID-19-Fälle in Schleswig-Holstein</title>
 <link rel="stylesheet" href="../css/style.css" media="screen" type="text/css">
 <link rel="stylesheet" media="screen" href="Chart.min.css"> 
